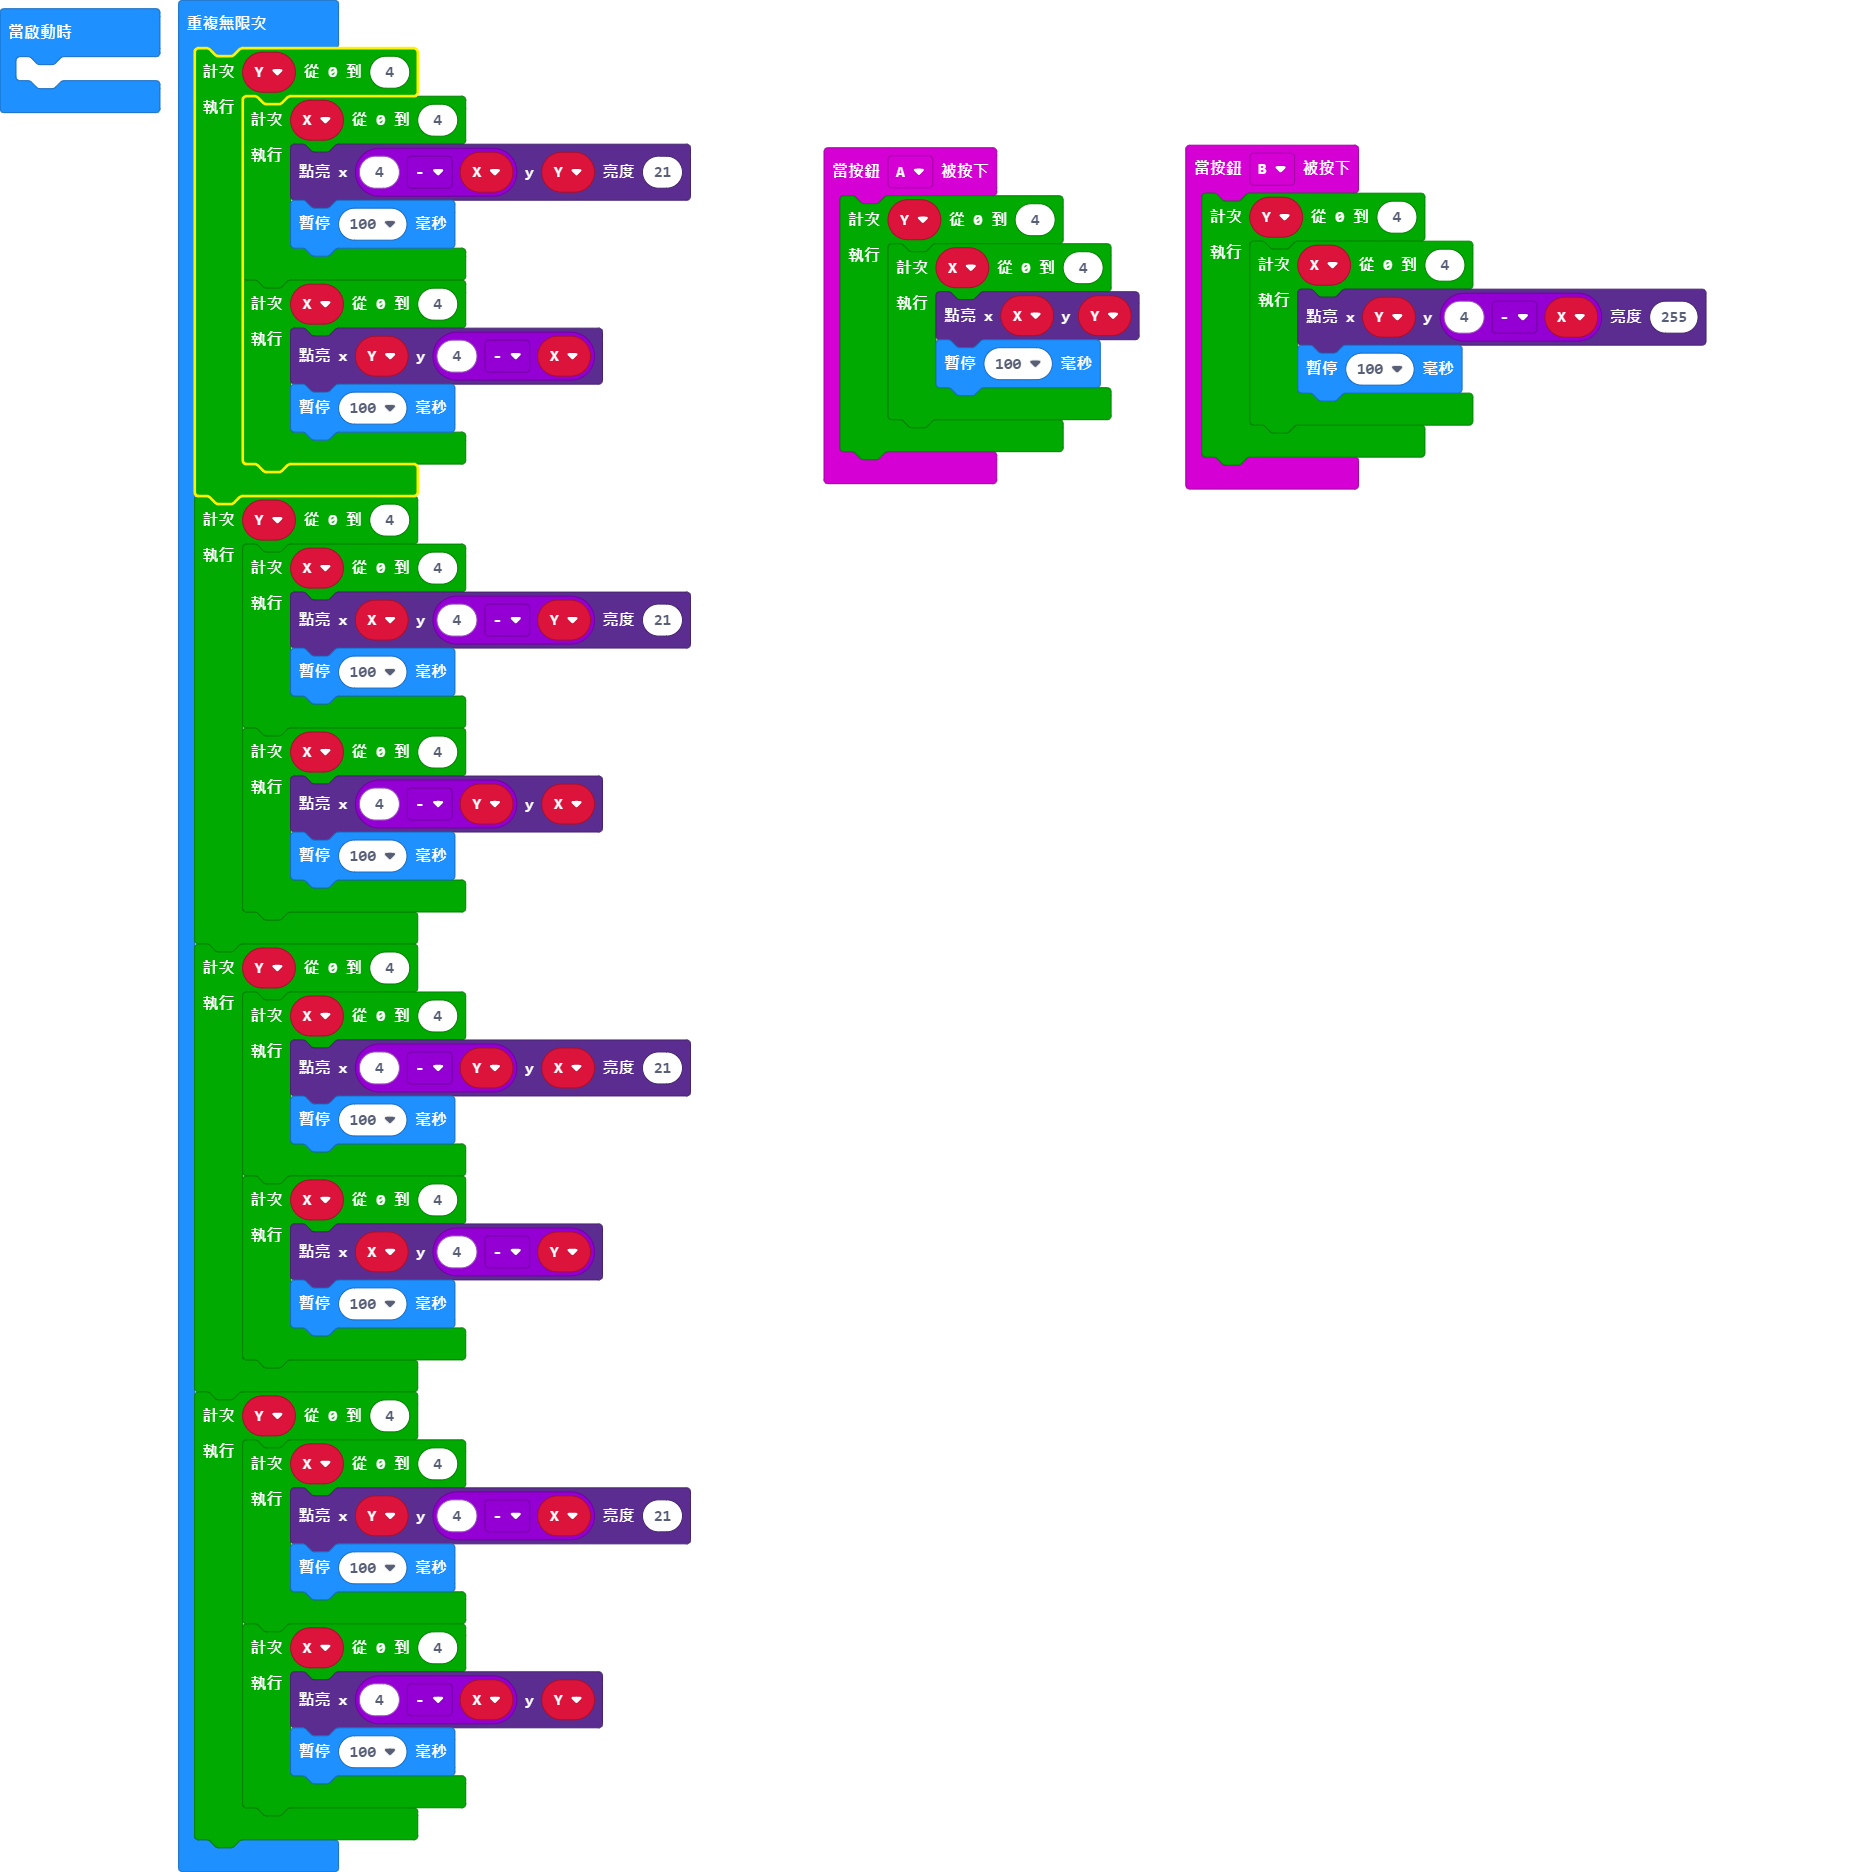
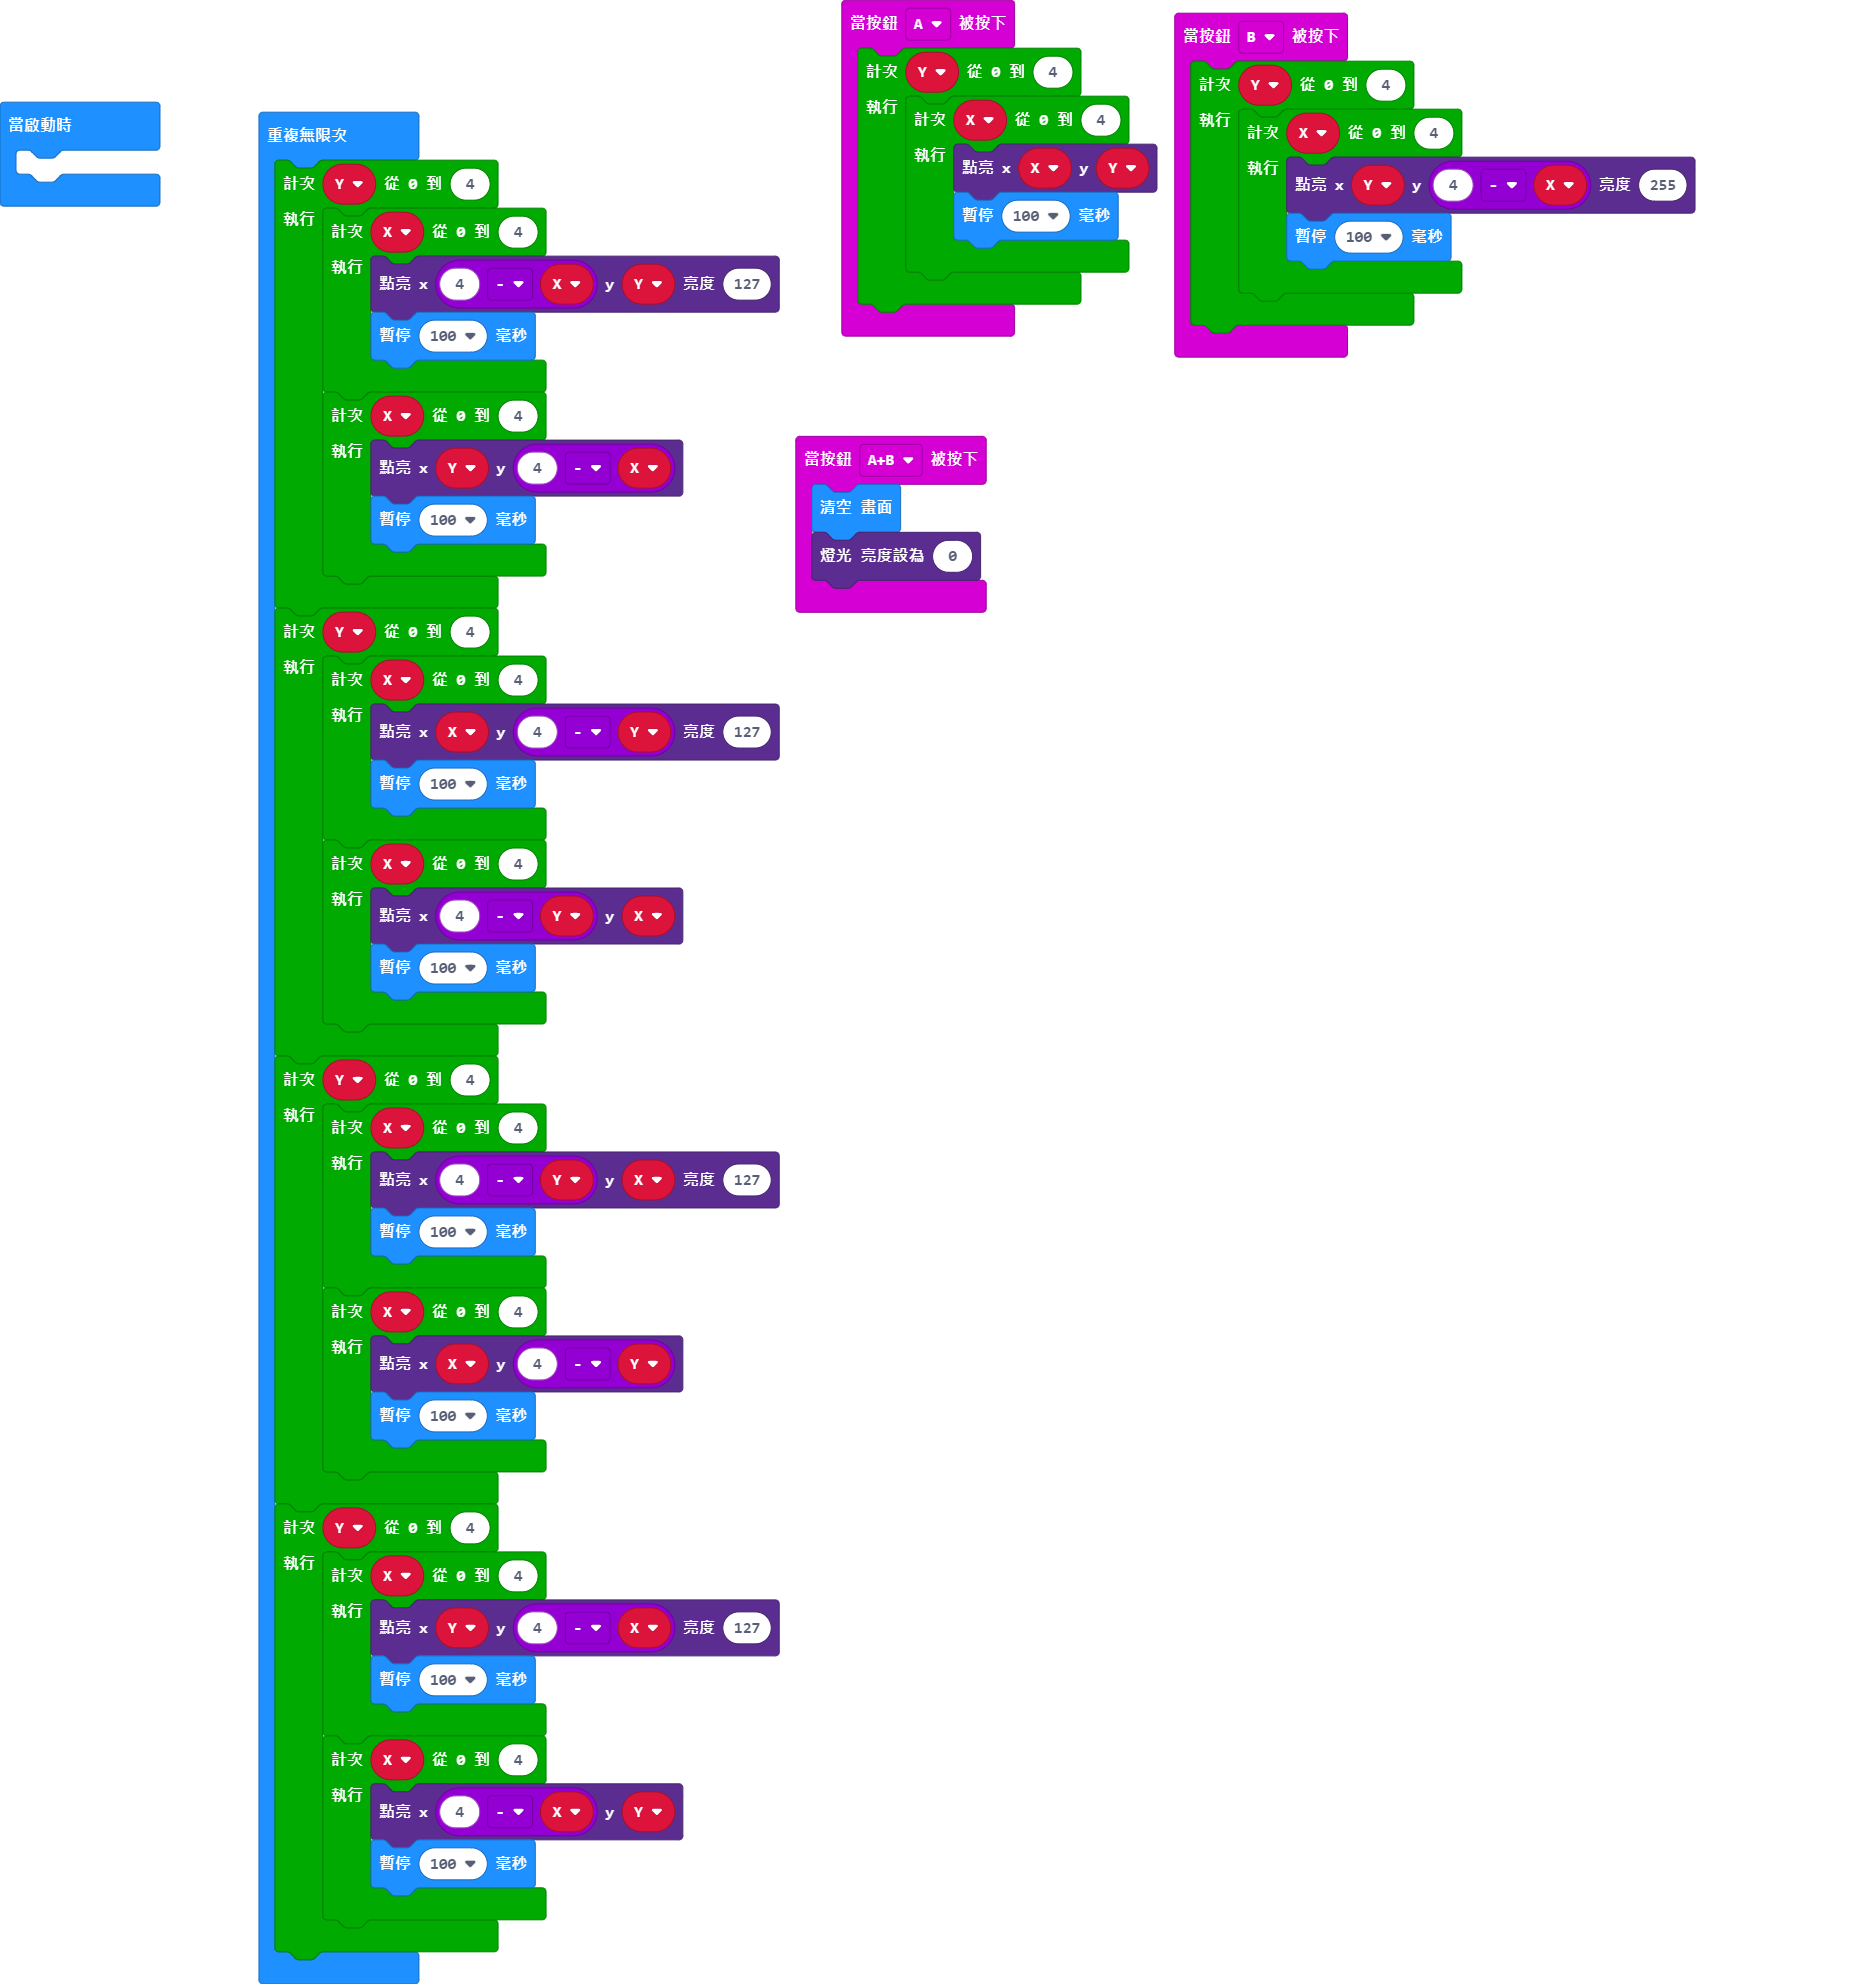
更新 main.blocks, main.ts

Changed region(s): [[0.0, 0.0, 0.9238, 1.0]]

diff --git a/main.ts b/main.ts
@@ -6,6 +6,10 @@ input.onButtonPressed(Button.A, function () {
         }
     }
 })
+input.onButtonPressed(Button.AB, function () {
+    basic.clearScreen()
+    led.setBrightness(0)
+})
 input.onButtonPressed(Button.B, function () {
     for (let Y = 0; Y <= 4; Y++) {
         for (let X = 0; X <= 4; X++) {
@@ -17,7 +21,7 @@ input.onButtonPressed(Button.B, function () {
 basic.forever(function () {
     for (let Y = 0; Y <= 4; Y++) {
         for (let X = 0; X <= 4; X++) {
-            led.plotBrightness(4 - X, Y, 21)
+            led.plotBrightness(4 - X, Y, 127)
             basic.pause(100)
         }
         for (let X = 0; X <= 4; X++) {
@@ -27,7 +31,7 @@ basic.forever(function () {
     }
     for (let Y = 0; Y <= 4; Y++) {
         for (let X = 0; X <= 4; X++) {
-            led.plotBrightness(X, 4 - Y, 21)
+            led.plotBrightness(X, 4 - Y, 127)
             basic.pause(100)
         }
         for (let X = 0; X <= 4; X++) {
@@ -37,7 +41,7 @@ basic.forever(function () {
     }
     for (let Y = 0; Y <= 4; Y++) {
         for (let X = 0; X <= 4; X++) {
-            led.plotBrightness(4 - Y, X, 21)
+            led.plotBrightness(4 - Y, X, 127)
             basic.pause(100)
         }
         for (let X = 0; X <= 4; X++) {
@@ -47,7 +51,7 @@ basic.forever(function () {
     }
     for (let Y = 0; Y <= 4; Y++) {
         for (let X = 0; X <= 4; X++) {
-            led.plotBrightness(Y, 4 - X, 21)
+            led.plotBrightness(Y, 4 - X, 127)
             basic.pause(100)
         }
         for (let X = 0; X <= 4; X++) {
